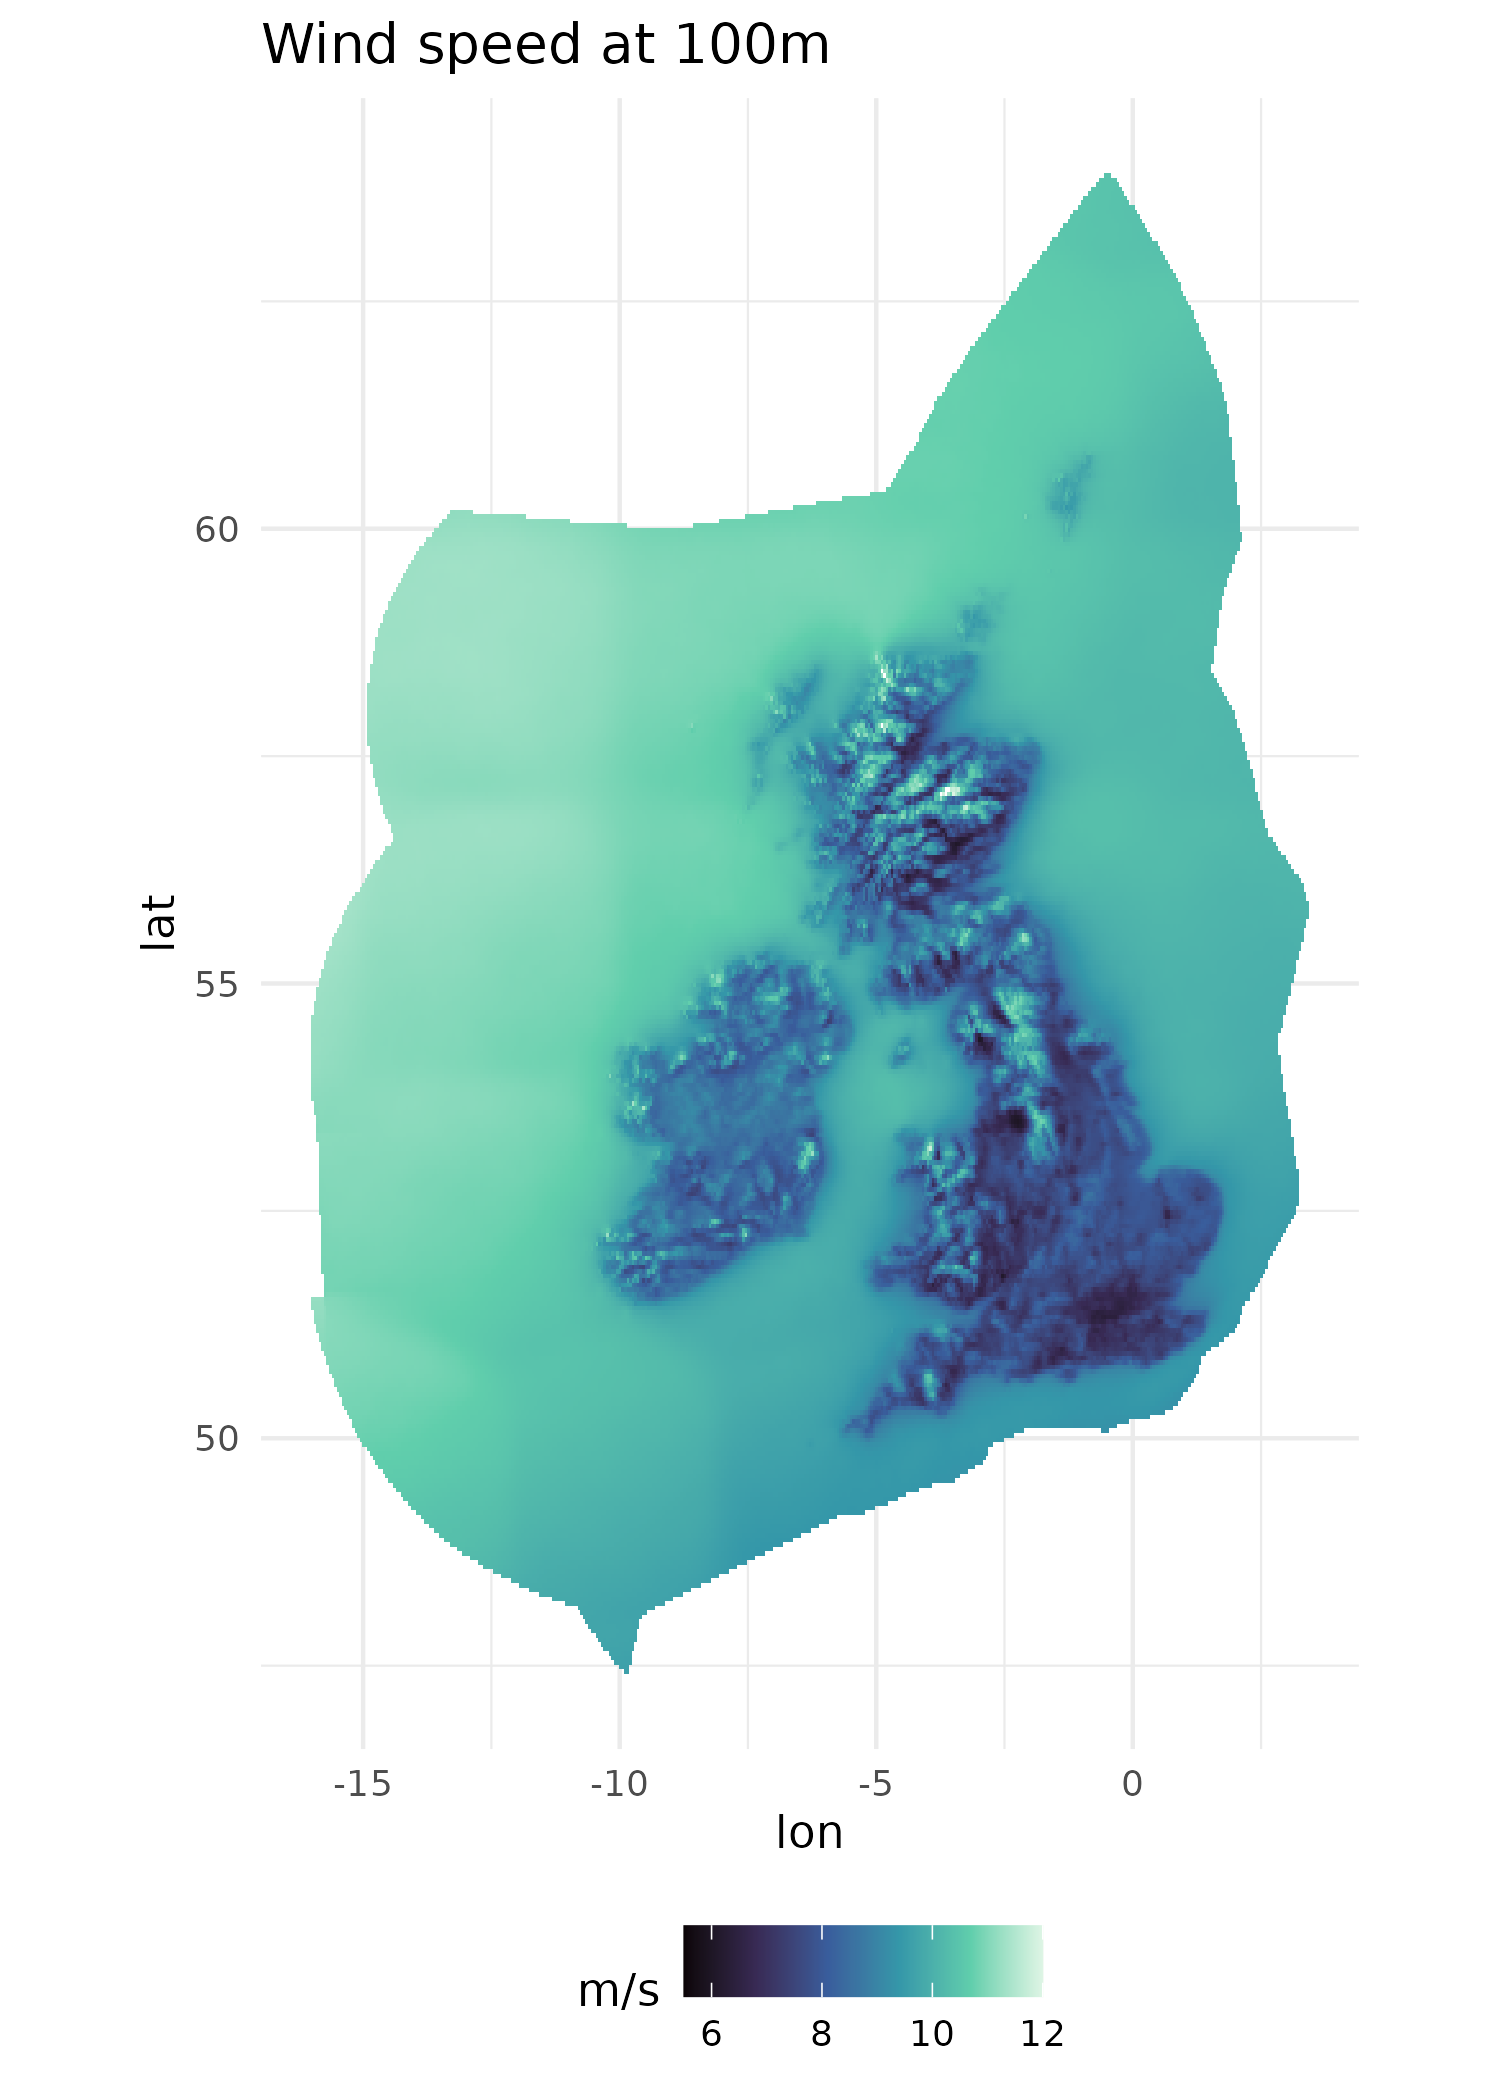
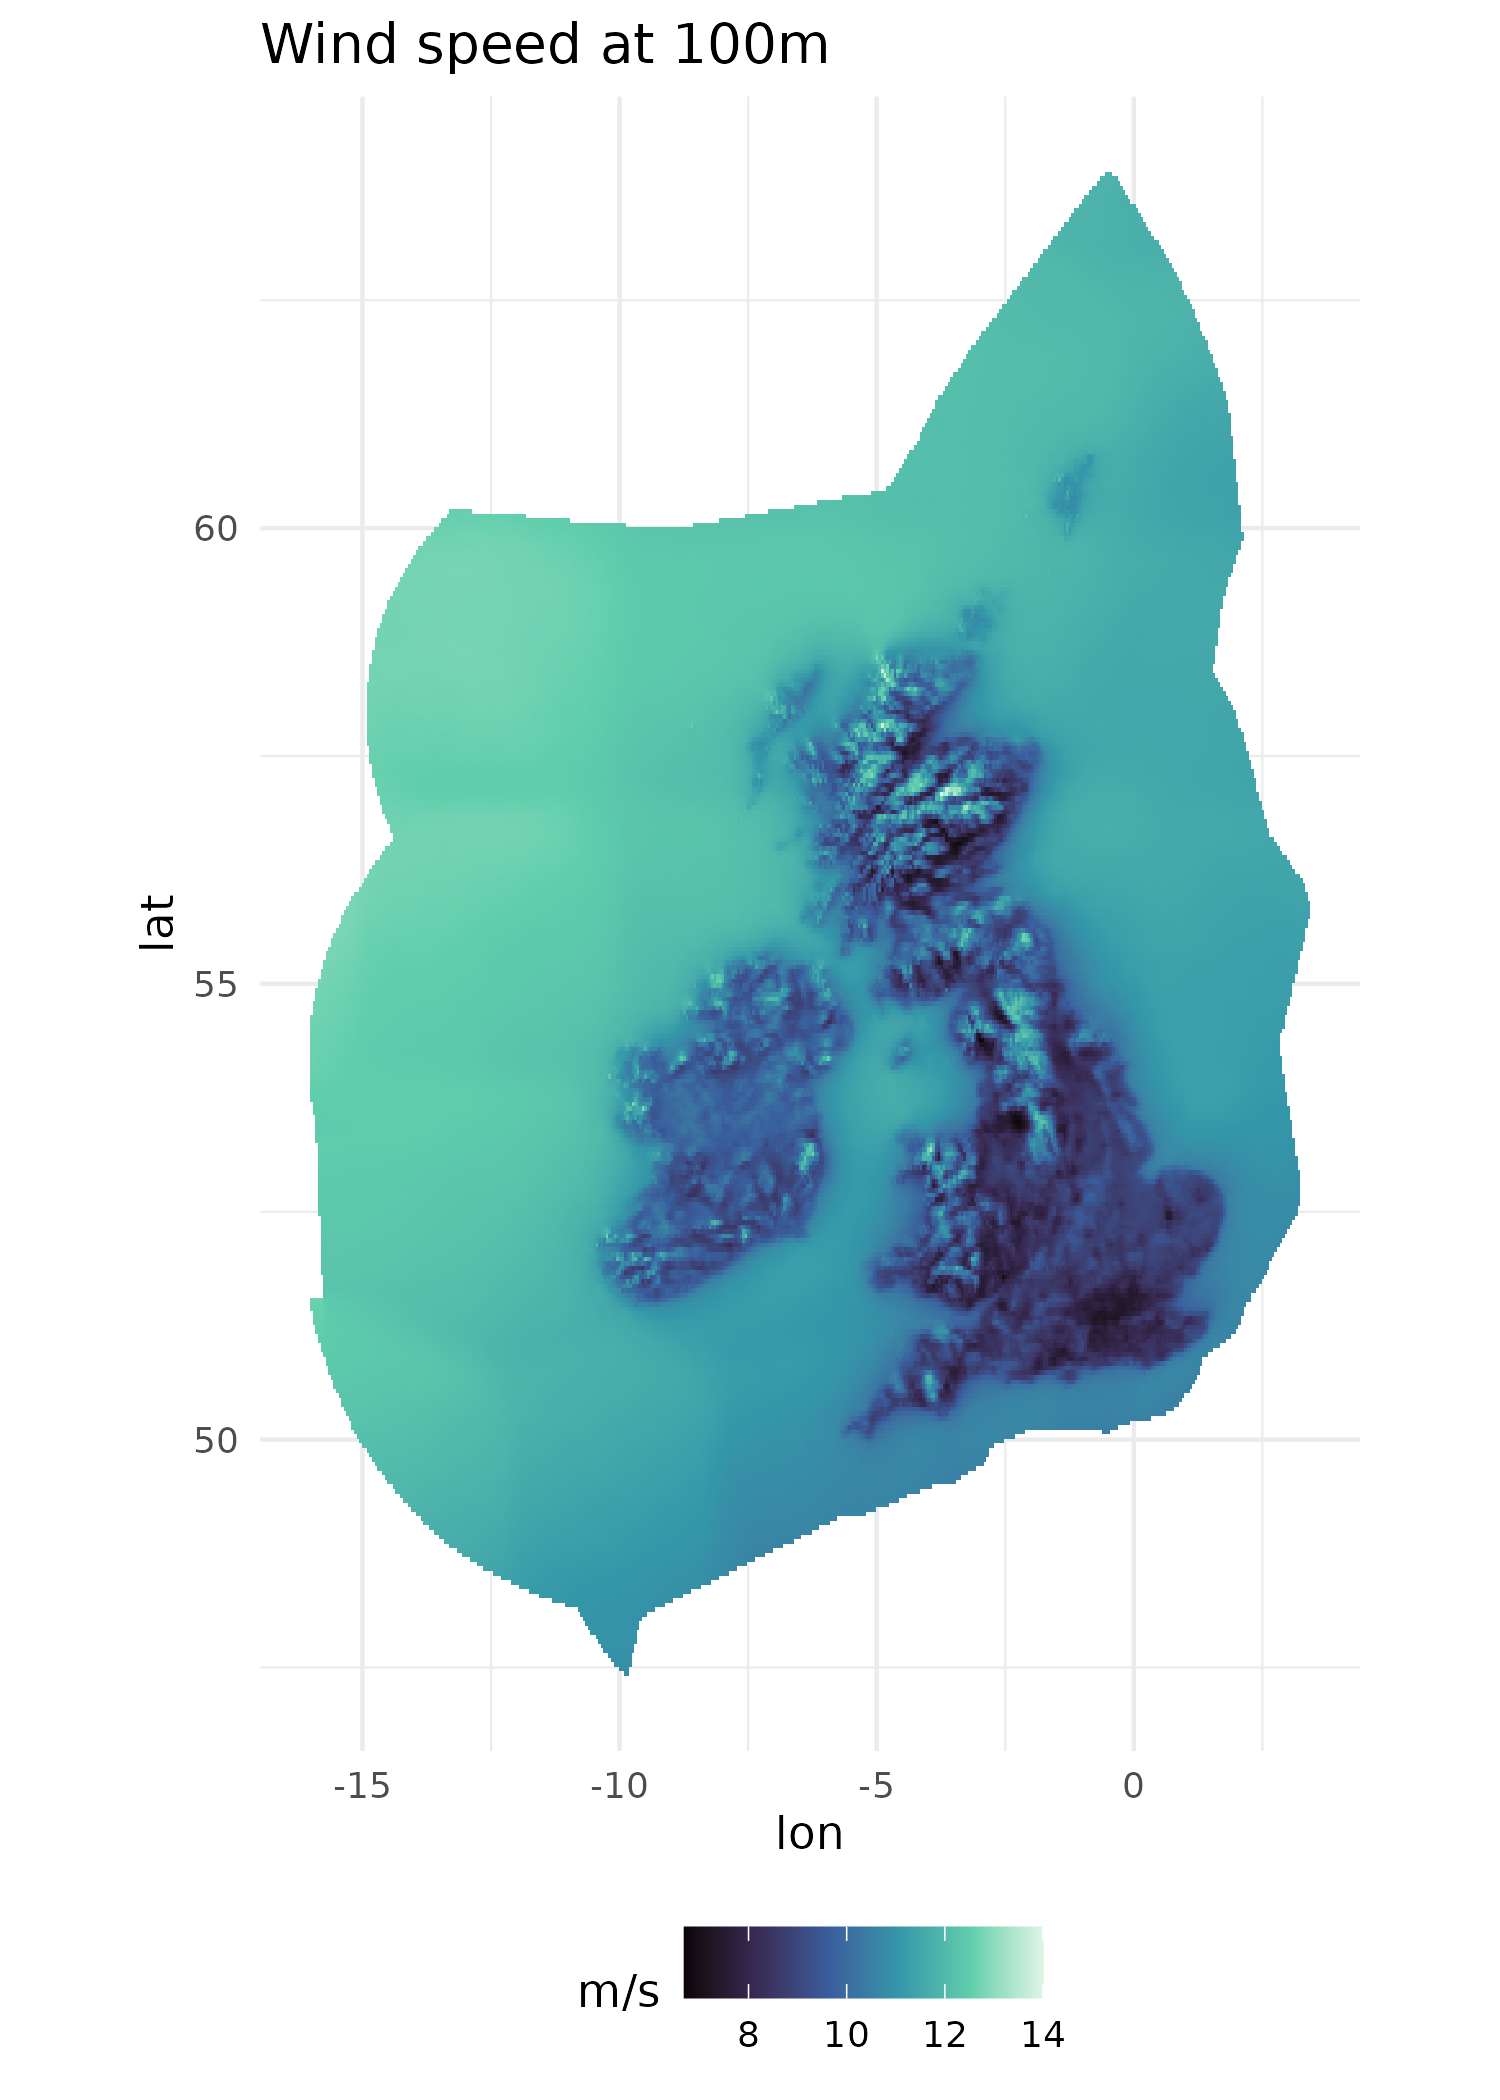
fst fix name + weibull parameters download test

diff --git a/README.md b/README.md
@@ -26,13 +26,13 @@ Global Wind Atlas calibration to UK power
 - **Power curve fitting**
   - Using generic curves
     - [x] IEC class
-    - [ ] function to rescale pc
+    - [x] function to rescale pc
     - map curves
       - [x] fill in capacity_turb
       - [x] n_turb per BMU
       - [x] hub height imputation
-    - convert GWA to power
-    - compare with generation
+    - [x] convert GWA to power
+    - [ ] compare with generation
   - Using turbine characteristics  
   - Using historical power data  
 